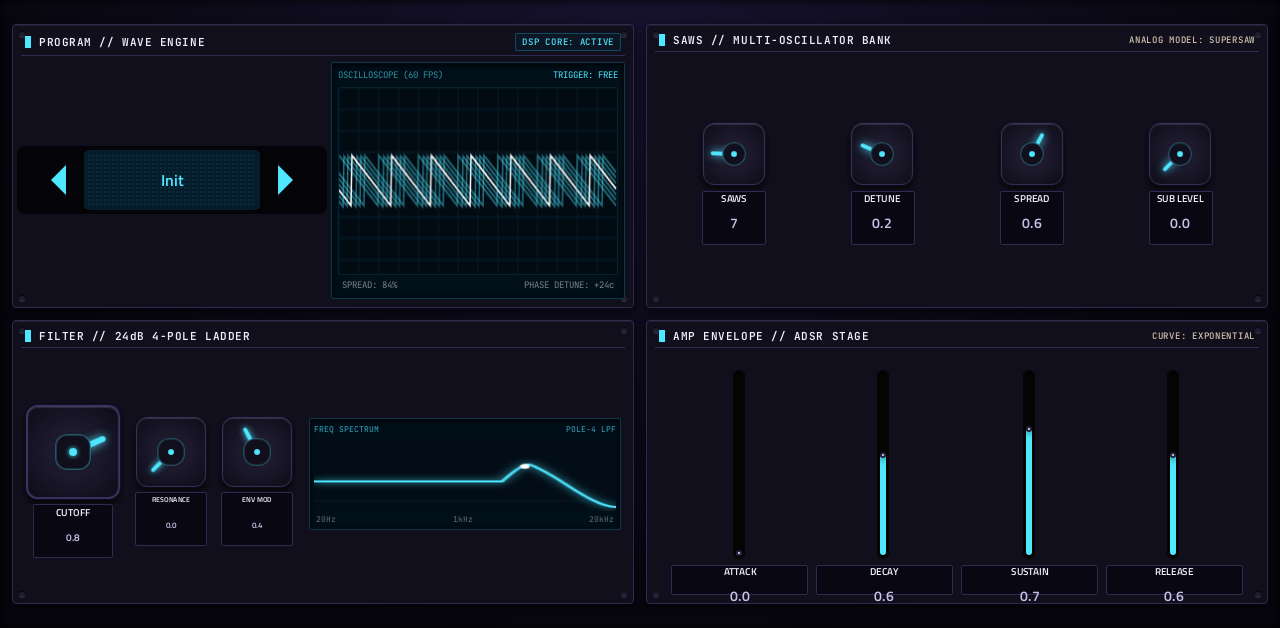
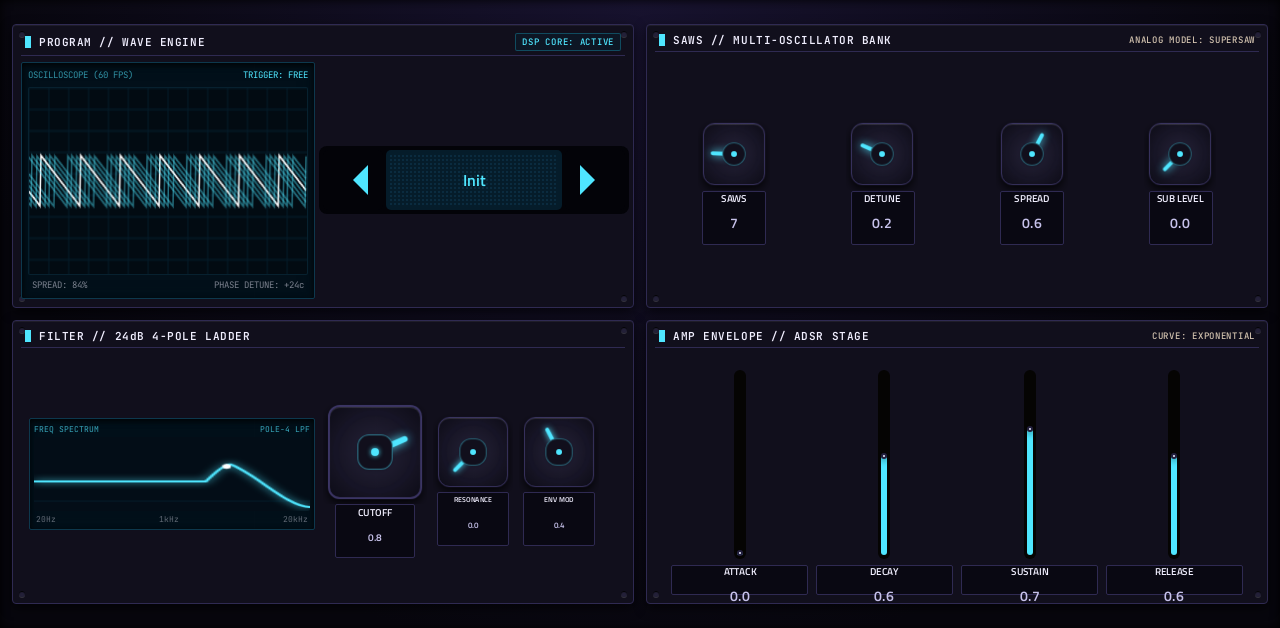
NuSaw: design QA -- a Q-Link column per panel, displays on the left

diff --git a/dev-tools/stitch/convert.py b/dev-tools/stitch/convert.py
@@ -638,12 +638,29 @@ MAPS = {
                     'origin-bottom shadow-[0_0_8px_#4fe6ff]" style="bottom: 50%;"></div><div class="w-6 h-6 rounded-full '
                     'bg-[#110f1c] border border-[#4fe6ff]/40 flex items-center justify-center z-10 shadow"><span class="w-1.5 h-1.5 '
                     'rounded-full bg-[#4fe6ff]"></span></div></div></div>',
+            # the plan's logo plate (MORE's empty corner): a wordmark in the design's type
+            "art": '<section class="absolute rounded border border-[#2f2a52] bg-[#110f1c] flex flex-col items-center justify-center" '
+                   'style="left:{x}px; top:{y}px; width:{w}px; height:{h}px;"><div class="text-headline-md font-headline-md '
+                   'font-bold text-[#4fe6ff] tracking-[0.25em] glow-cyan" style="font-size: 40px;">NUSAW</div><div '
+                   'class="text-label-sm font-label-sm text-on-surface-variant mt-2 tracking-widest">SUPERSAW SYNTH</div></section>',
         },
         "augment": [
             {"sel": "circle[id^=arc-]", "all": True, "remove": True},
             {"sel": "div.flex.items-center.gap-2:has(> button + span)", "remove": True},   # 24dB LP / ANALOG SAT: no parameters
             {"sel": "main", "attr": {"style": "height: 604px; margin-top: 12px; margin-bottom: 12px;"}},
+            # design QA 2026-10-03: displays on the left of their panels (the scope, the filter curve)
+            {"sel": "div.lcd-display:has(> div > #scopeCanvas)", "attr": {"style": "order: -1"}},
+            {"sel": "div.lcd-display:has(> div > #filterCanvas)", "attr": {"style": "order: -1"}},
+            {"sel": "div:has(> div > div > #filterCanvas)", "attr": {"style": "padding-right: 30px"}},   # outline inside the panel
         ],
+        # design QA 2026-10-03: a Q-Link column per panel (SAWS | FILTER | AMP ENVELOPE | PATCH; FILTER ENVELOPE |
+        # PLAYING | CHORUS | DELAY)
+        "qlinks": {
+            0: ["saw_count", "detune", "spread", "sub_level", "cutoff", "resonance", "f_amount", "-",
+                "attack", "decay", "sustain", "release", "preset", "-", "-", "-"],
+            1: ["f_attack", "f_decay", "f_sustain", "f_release", "sub_octave", "vel_sens", "bend_range", "volume",
+                "chorus_mix", "chorus_depth", "-", "-", "delay_mix", "delay_time", "delay_fback", "delay_tone"],
+        },
         "map": {"saws": "saw_count", "sub": "sub_level", "reso": "resonance", "fenv": "f_amount", "groove-attack": "attack",
                 "groove-decay": "decay", "groove-sustain": "sustain", "groove-release": "release"},
         "grid": {"tabs": ["MORE"], "tpl": None},

diff --git a/README.md b/README.md
@@ -90,7 +90,7 @@ The first install of a plugin restarts MPC once (it asks first; `MPC.settings` i
 
 - All 36 build and pass the offline test: an x86 build under AddressSanitizer/UBSan that checks every parameter, presets, saving and restoring, Q-Link behaviour, notes to audio, and a stress test that hammers the plugin from two threads as MPC does.
 - All 36 run on an MPC Live II (MPC OS 3.9.1) with their Stitch screens (installed 2026-10-03). Moog's screen has been checked on the device; the others are going through an on-device design QA now: see the **Design QA** column above.
-- Design QA, first pass (offline, waiting for the device check): 303 (✅), Aphex, Braids, Chordism, Denis, Elements, Fizzik, Hank, Hera, Hush One, MonkSynth, Mono Voice, Mr Hyde, Noisemaker: one Q-Link column per panel, as Moog. Each has a `DESIGN-QA.md` with what changed.
+- Design QA, first pass (offline, waiting for the device check): 303 (✅), Aphex, Braids, Chordism, Denis, Elements, Fizzik, Hank, Hera, Hush One, MonkSynth, Mono Voice, Mr Hyde, Noisemaker, NuSaw: one Q-Link column per panel, as Moog. Each has a `DESIGN-QA.md` with what changed.
 - Presets: every instrument that has presets lists them in MPC's own **PRESET menu** in the plugin header (also on the arrangement screen); checked on the Live II. OB-Xd and Noisemaker get a BANK selector for banks you add, Hush One reads TAL-BassLine-101 presets you add, and the menu follows what's loaded ([docs/presets-and-libraries.md](docs/presets-and-libraries.md)).
 - Every screen is checked offline before it ships: each control's binding, the Q-Link layout, the touch areas (`dev-tools/stitch/check_skin.py`) and the Q-Link column outlines MPC highlights (`dev-tools/stitch/qlink_overlay.py`).
 - Not yet tried on a device: the sequencers driving other tracks through their own MIDI port on a stock MPC (the mechanism works on a Force), and the three audio effects (whether MPC lists third-party effects at all).

diff --git a/schwung/instruments/nusaw/DESIGN-QA.md b/schwung/instruments/nusaw/DESIGN-QA.md
@@ -1,0 +1,30 @@
+# Design QA: NuSaw
+
+Status: done offline (2026-10-03), **waiting for the device check**.
+
+## Owner's notes
+None specific; checked against the batch rules (one Q-Link column per panel, as Moog; outlines that frame one
+panel; displays on the left, controls on the right).
+
+## What changed
+Q-Link columns before → after ("-" = an empty slot):
+
+| Page | before | after |
+|---|---|---|
+| MAIN | 1 PATCH, SAWS, DETUNE, SPREAD  ·  2 SUB LEVEL, CUTOFF, RESONANCE, ENV MOD  ·  3 ATTACK, DECAY, SUSTAIN, RELEASE | 1 SAWS, DETUNE, SPREAD, SUB LEVEL  ·  2 CUTOFF, RESONANCE, ENV MOD  ·  3 ATTACK, DECAY, SUSTAIN, RELEASE  ·  4 PATCH |
+| MORE | 1 FLT ATTACK, FLT DECAY, FLT SUSTAIN, FLT RELEASE  ·  2 SUB OCTAVE, VELOCITY, BEND RANGE, VOLUME  ·  3 CHORUS, CHORUS DEPTH, DELAY, DELAY TIME  ·  4 DELAY FBK, DELAY TONE | 1 FLT ATTACK, FLT DECAY, FLT SUSTAIN, FLT RELEASE  ·  2 SUB OCTAVE, VELOCITY, BEND RANGE, VOLUME  ·  3 CHORUS, CHORUS DEPTH  ·  4 DELAY, DELAY TIME, DELAY FBK, DELAY TONE |
+
+- **MAIN**: column 1's outline took in the PROGRAM and SAWS panels, column 2's SAWS and FILTER. Now SAWS | FILTER |
+  AMP ENVELOPE | PATCH (the patch last, as on Aphex and MonkSynth). The scope moved to the left of the PROGRAM panel
+  and the filter curve to the left of the FILTER panel, with the controls on the right.
+- **MORE**: CHORUS and DELAY get a column each (the delay had been split over two). A NUSAW wordmark fills the empty
+  corner.
+- The ADSR slider strips were rebuilt with the slider fix (the "silly" slider animation seen on Braids).
+
+Made in the design (convert.py MAPS `augment` / `qlinks`, and an `art` plate) and re-converted, so a rerun keeps it.
+
+## Presets
+27 built-in patches, in MPC's PRESET menu (unchanged).
+
+## Checked
+Offline test PASSED; check_skin OK; no Q-Link outlines overlap on either page (qlink_overlay.py).

diff --git a/schwung/instruments/nusaw/README.md b/schwung/instruments/nusaw/README.md
@@ -24,13 +24,13 @@ Screenshots are rendered from the built skin with the engine's real values right
 
 <img src="screenshots/page_0.png" width="760" alt="NuSaw, page MAIN">
 
-Q-Link columns: **1** PATCH, SAWS, DETUNE, SPREAD  ·  **2** SUB LEVEL, CUTOFF, RESONANCE, ENV MOD  ·  **3** ATTACK, DECAY, SUSTAIN, RELEASE
+Q-Link columns: **1** SAWS, DETUNE, SPREAD, SUB LEVEL  ·  **2** CUTOFF, RESONANCE, ENV MOD  ·  **3** ATTACK, DECAY, SUSTAIN, RELEASE  ·  **4** PATCH
 
 ### 2. MORE
 
 <img src="screenshots/page_1.png" width="760" alt="NuSaw, page MORE">
 
-Q-Link columns: **1** FLT ATTACK, FLT DECAY, FLT SUSTAIN, FLT RELEASE  ·  **2** SUB OCTAVE, VELOCITY, BEND RANGE, VOLUME  ·  **3** CHORUS, CHORUS DEPTH, DELAY, DELAY TIME  ·  **4** DELAY FBK, DELAY TONE
+Q-Link columns: **1** FLT ATTACK, FLT DECAY, FLT SUSTAIN, FLT RELEASE  ·  **2** SUB OCTAVE, VELOCITY, BEND RANGE, VOLUME  ·  **3** CHORUS, CHORUS DEPTH  ·  **4** DELAY, DELAY TIME, DELAY FBK, DELAY TONE
 
 ## Install
 
